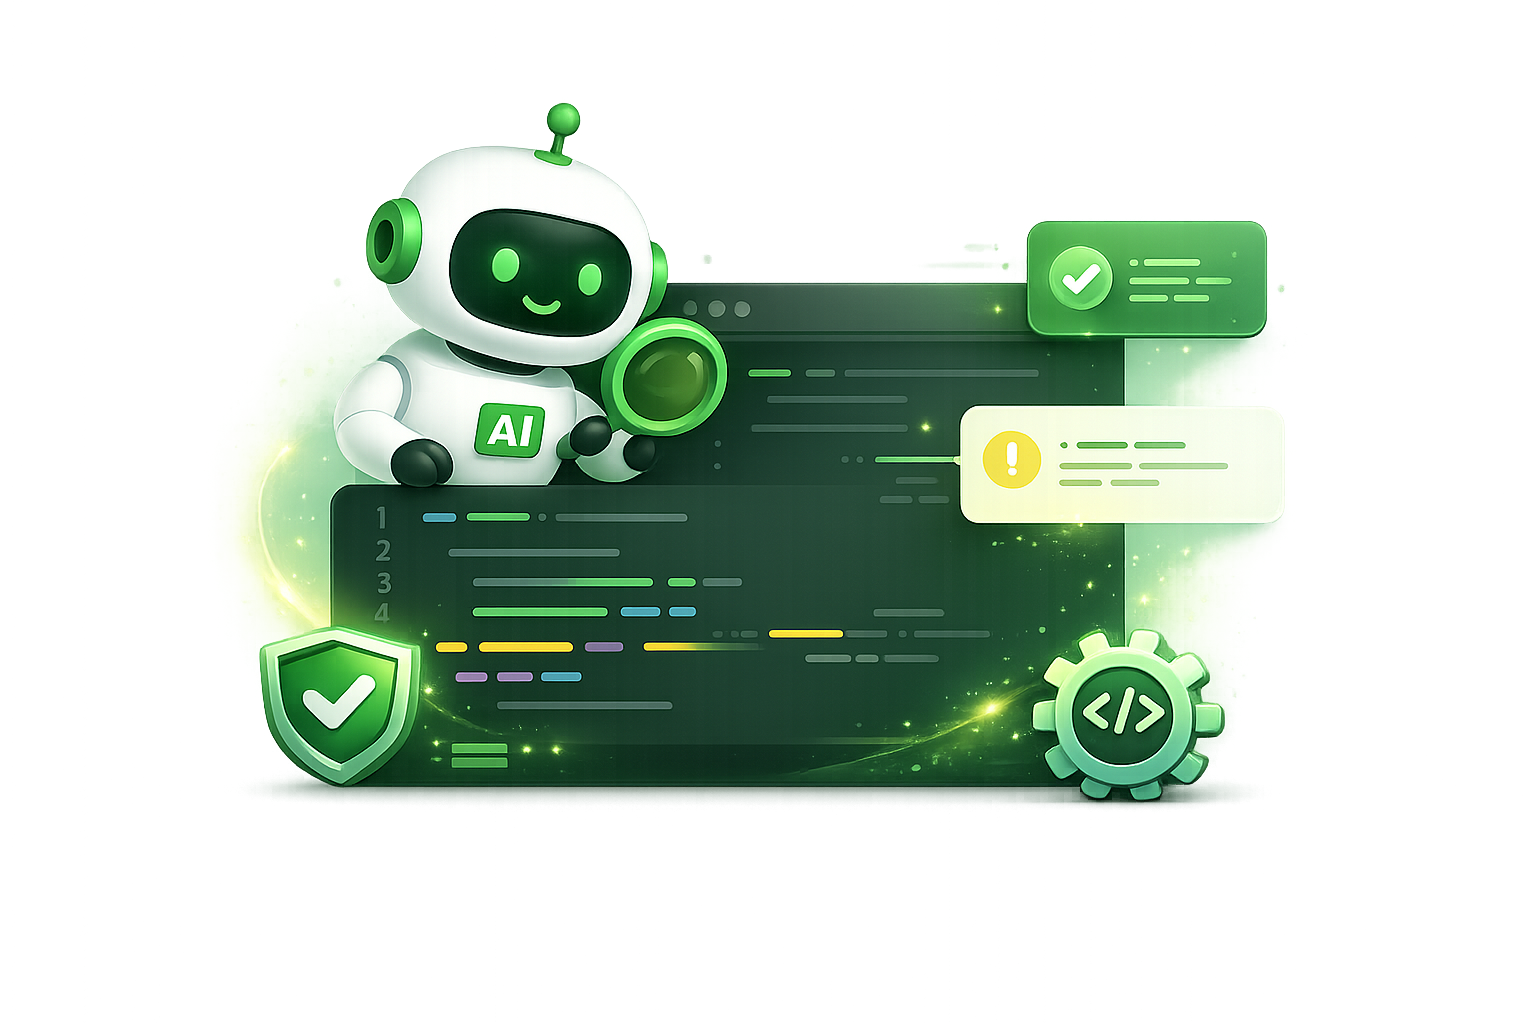
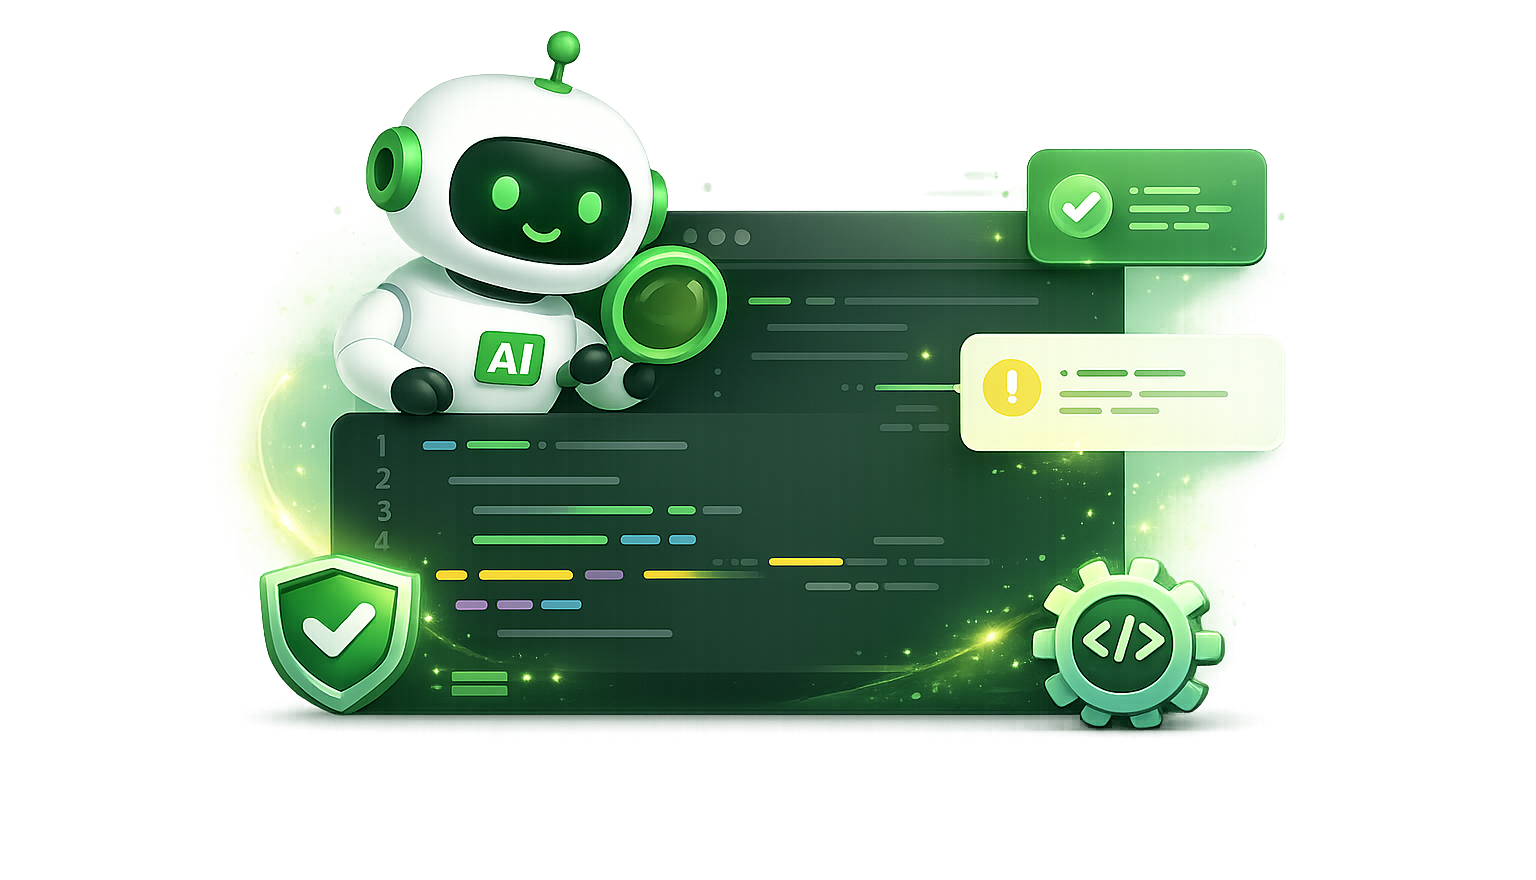
docs: README 头部对齐标准开源布局（语言行下移、头图入 What 小节、裁切图底空白）
- 语言切换行从顶部 blockquote 移至徽章下方居中行，后接分隔线，对齐 open-code-review 布局
- 头图与标语移入「什么是 AI Code Review」首段之后，标题区只留徽章
- 徽章保持两行独立块（回退上轮的合块）
- 头图裁掉底部 144px 空白渐变带（1024→880），标语与图视觉间距收紧

Changed region(s): [[0.1562, 0.0307, 0.8438, 0.8591], [0.1562, 0.4295, 0.1875, 0.4602]]

diff --git a/README.en.md b/README.en.md
@@ -1,21 +1,22 @@
 # AI Code Review — Enterprise Code Review Governance Platform
 
-> **Language**: English | [简体中文](README.md)
-
 <p align="center">
   <a href="LICENSE"><img src="https://img.shields.io/github/license/miguchn/ai-code-review" alt="License" /></a>
   <img src="https://img.shields.io/badge/Java-17-orange.svg" alt="Java 17" />
   <img src="https://img.shields.io/badge/Spring_Boot-4.x-6DB33F.svg" alt="Spring Boot 4" />
-  <img src="https://img.shields.io/badge/Vue-3.x-42b883.svg" alt="Vue 3" /><br/>
+  <img src="https://img.shields.io/badge/Vue-3.x-42b883.svg" alt="Vue 3" />
+</p>
+<p align="center">
   <img src="https://img.shields.io/badge/GitHub-supported-181717.svg" alt="GitHub supported" />
   <img src="https://img.shields.io/badge/GitLab-supported-FC6D26.svg" alt="GitLab supported" />
   <img src="https://img.shields.io/badge/Gitee-supported-C71D23.svg" alt="Gitee supported" />
   <img src="https://img.shields.io/badge/Gitea-supported-609926.svg" alt="Gitea supported" />
 </p>
 <p align="center">
-  <img src="docs/images/readme-hero.png" alt="AI Code Review — AI robot reviewing code" width="760" /><br/>
-  <em>Every line of your code must withstand AI scrutiny.</em>
+  English | <a href="README.md">简体中文</a>
 </p>
+
+---
 
 ## What is AI Code Review?
 
@@ -24,6 +25,11 @@ AI Code Review is an **enterprise-internal code review governance platform** dep
 The main loop:
 
 **Project & credential setup → webhook event intake → review execution → summary comment writeback → IM notification → issue disposition → workbench**
+
+<p align="center">
+  <img src="docs/images/readme-hero.png" alt="AI Code Review — AI robot reviewing code" width="760" /><br/>
+  <em>Every line of your code must withstand AI scrutiny.</em>
+</p>
 
 It focuses on: **uncontrollable review coverage** (reliable webhooks, idempotent tasks, failure recovery), **results that are hard to reach or act on** (writeback to the code platform, tiered notification, confirm/fix/appeal loops), **ungoverned rules and models** (versioned review policies, encrypted keys, tracked degradation), **unmeasurable quality** (unified coverage/latency/valid-issue metrics), and **weak enterprise security and audit** (org/business-system/project data isolation with audit trails).
 
